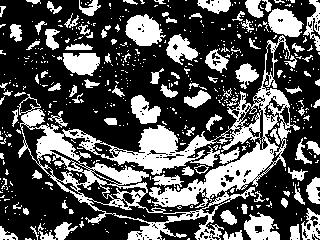
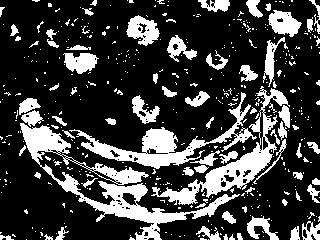
probs inhenced

diff --git a/image2graph.py b/image2graph.py
@@ -1,23 +1,36 @@
 import math
 import numpy as np
+from scipy.special import erf
 from Dinic import Graph
+
+
+def laplace(x):
+    return erf(x/2**0.5)/2
 
 # constants
 K = 2
-bins = 9
+bins = 25
 step = math.ceil(256 / bins)
-lambda_const = 10
-sigma_const = 5
-epsilon = 1e-9
+lambda_const = 200
+sigma_const = 100
+epsilon = 1e-7
 
 
 def generate_probs(img, interest):
     # определяем вероятности попадения в блоки гистограммы
     hist = [0] * bins
+    mu = 0
     for (x, y) in interest:
-        hist[img[x][y] // step] += 1
+        mu += img[x][y]
+    mu /= len(interest)
+    sigma = 0
+    for (x, y) in interest:
+        sigma += (img[x][y] - mu)**2
+    sigma = math.sqrt(sigma / (len(interest)-1))
     for i in range(bins):
-        hist[i] /= len(interest)
+        b = (step*(i+1) - mu) / sigma
+        a = (step*i - mu) / sigma
+        hist[i] = laplace(b) - laplace(a)
     return hist
 
 
